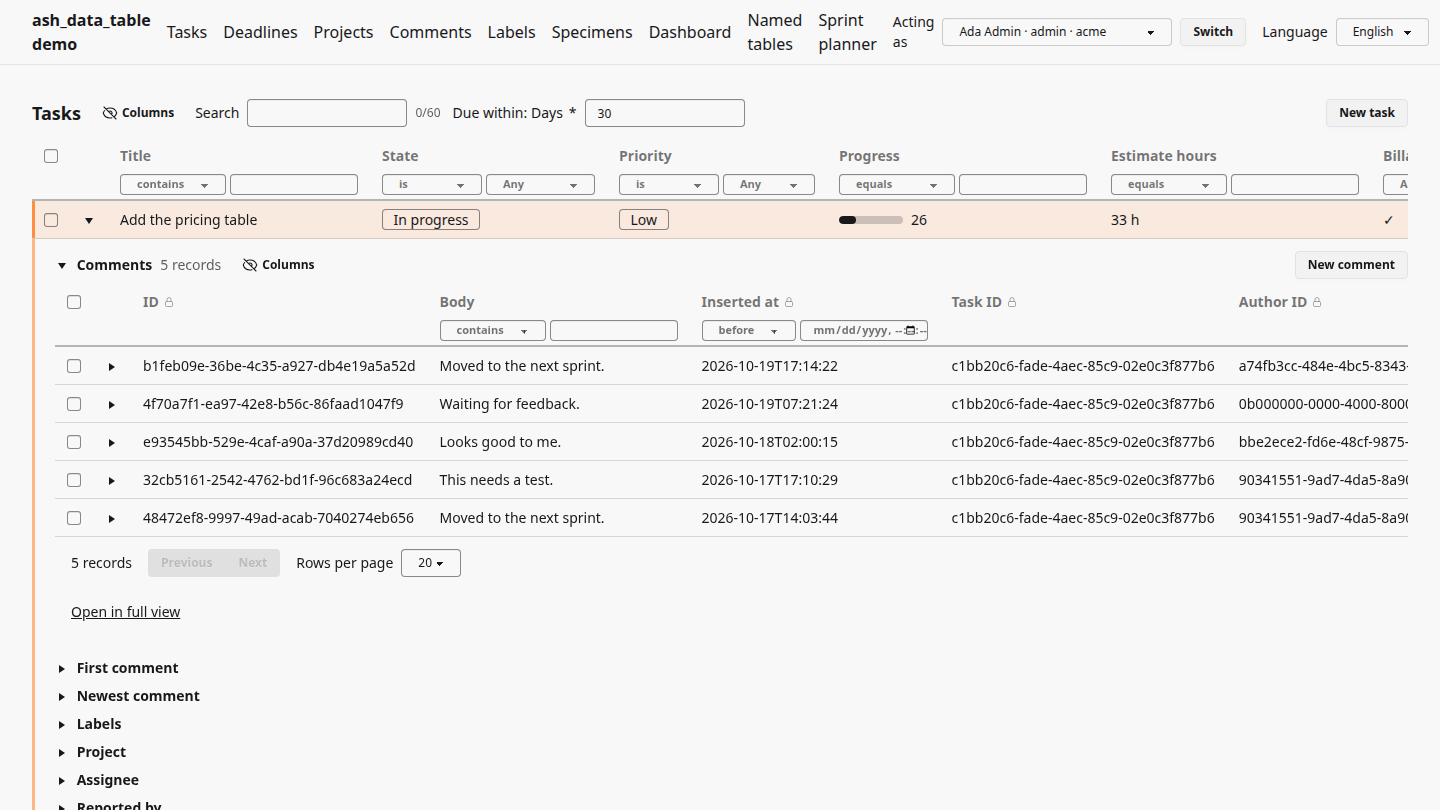
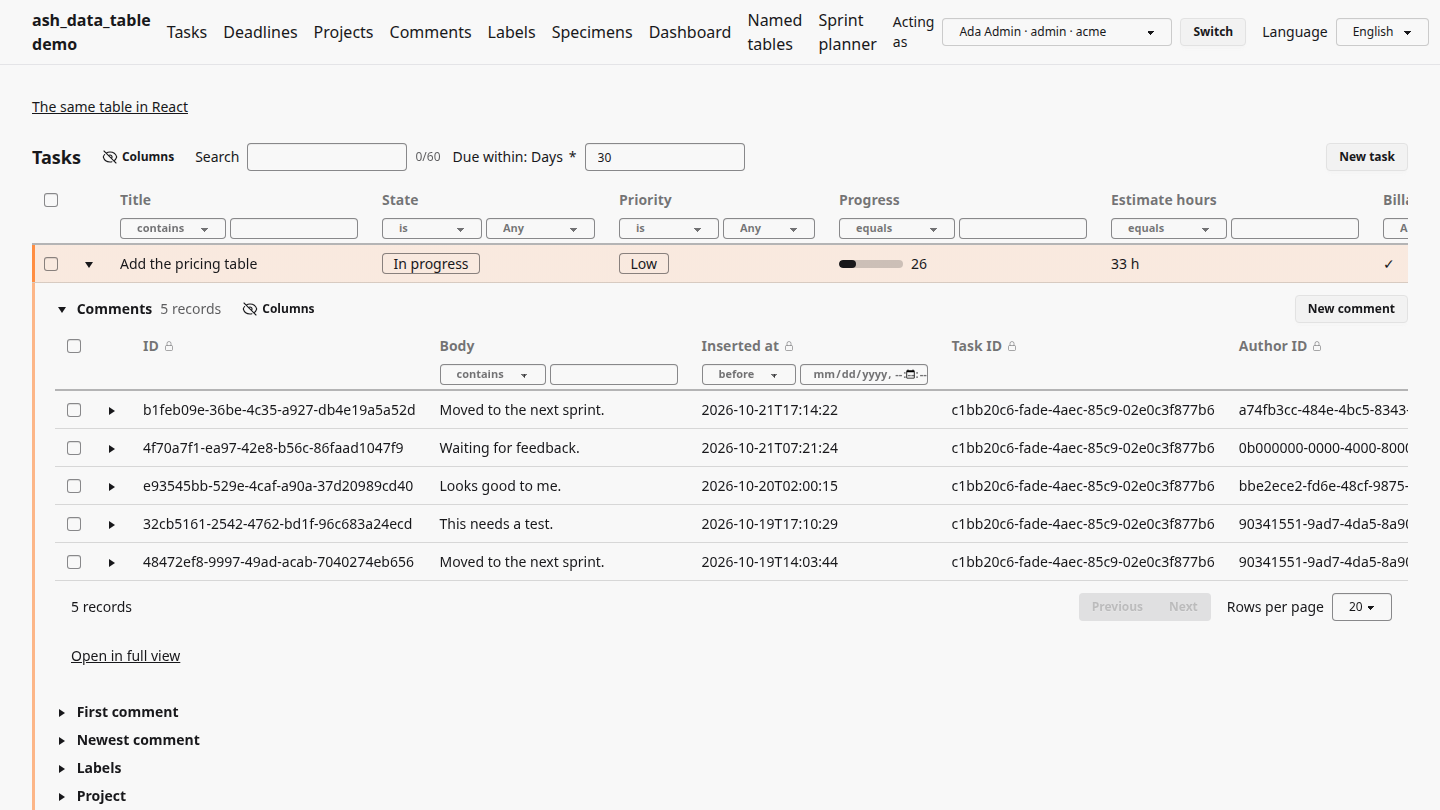
README: nine GIFs recorded at the current UI (action panel, validation, live updates, CSV export, React kit, planner; the three earlier ones again); the recorder records each clip on its own and makes smaller GIFs (temporal denoise, 48 colours, 6 fps); the picker clip is in the recorder but not reco

diff --git a/README.md b/README.md
@@ -83,27 +83,51 @@ The demo is a small issue tracker: projects, tasks, comments, labels, people.
 
 3. Double-click a task's **Project** or **Assignee** cell: you choose another
    record from that resource's own table.
+
 4. Use a **row action** in the last column, or **New task**: actions with
    inputs ask for them in a side panel.
-5. **Switch persons** under "Acting as": Max Member, Vera Viewer, Olga
+
+   ![Reassign on a task: the side panel asks for a reason, then runs the action](docs/images/action-panel.gif)
+
+5. **Ash's validations show where you edit.** Set a task's **State** to Done
+   while its progress is under 100: the validation's message, "must be 100
+   when the task is done", shows at the cell. Escape takes the change back.
+
+   ![Setting a task to Done with a progress of 5: the error at the cell, then Escape](docs/images/validation.gif)
+
+6. **Switch persons** under "Acting as": Max Member, Vera Viewer, Olga
    Outsider (another organization) or Nobody. Columns, buttons and editable
    cells change with the resource's policies.
 
    ![On /tasks/board, switching from Ada Admin to Vera Viewer: the Assignee column and the Archive buttons go](docs/images/acting-as.gif)
 
-6. **`/named`:** two tables of the comments in one window, the default and
+7. **`/named`:** two tables of the comments in one window, the default and
    the compact one. Change a comment's text in the first: the row changes in
    the second (**live updates**). It works across windows and persons too.
-7. Switch the language to **Deutsch**.
-8. Put the mouse away and use only **Tab**, Enter, Space and Escape.
-9. **`/specimens`:** one attribute of every Ash type, with nothing declared
-   but the update action.
-10. **`/react/tasks`:** the same table drawn with React and shadcn, to show
+
+   ![On /named, a comment changed in the first table changes in the second](docs/images/live-updates.gif)
+
+8. On `/tasks`, tick some rows and choose **More → Export CSV**: the
+   selection is exported as CSV, through the `ash_csv_interchange`
+   extension, and the browser saves the file.
+
+   ![Three tasks selected and exported, and the CSV file that was saved](docs/images/export-csv.gif)
+
+9. Switch the language to **Deutsch**.
+10. Put the mouse away and use only **Tab**, Enter, Space and Escape.
+11. **`/specimens`:** one attribute of every Ash type, with nothing declared
+    but the update action.
+12. **`/react/tasks`:** the same table drawn with React and shadcn, to show
     the drawing can be swapped. A link above each table switches between
     the two.
-11. **`/tasks/planner`:** the sprint planner. Tick tasks in the table; the
+
+    ![On /react/tasks, a title edited and a row opened into its comments, then the link to the HEEx table](docs/images/react-kit.gif)
+
+13. **`/tasks/planner`:** the sprint planner. Tick tasks in the table; the
     cards above follow. The page and the table talk through events and
     commands.
+
+    ![On /tasks/planner, ticked tasks and a changed estimate fill the cards above the table](docs/images/planner.gif)
 
 More pages and what each shows:
 [demo/README.md](https://github.com/StefanRoesch/ash_data_table/blob/main/demo/README.md).
